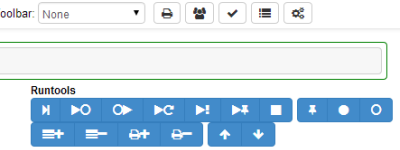
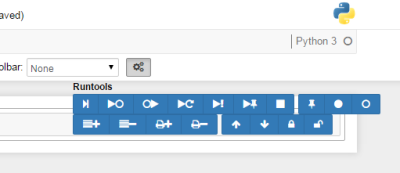
Update runtools docs

diff --git a/nbextensions/usability/runtools/readme.md b/nbextensions/usability/runtools/readme.md
@@ -29,32 +29,23 @@ Code Cell Display
 Description
 ===========
 
-The *runtools* extension adds a button to turn on/off a floating toolbar:
+The *runtools* extension adds a button to turn on/off a floating toolbar:   
 ![](runtools.png)
 
-This adds Code execution buttons:
+This adds Code execution buttons:   
 ![](runtools_execute.png)
 
-Codecells can be marked by clicking on the gutter of a codecell or by clicking on the markers toolbar:
+Codecells can be marked by clicking on the gutter of a codecell or by clicking on the markers toolbar:   
 ![](runtools_marker.png)
+
+Marked codecells can be locked to read-only mode and moved upd and down:   
+![](runtools_move_lock.png)
+
+The input and output areas of marked codecells can be hidden:   
+![](runtools_show_hide.png)
 
 A IPython notebook with marked cells looks like this:
 ![](runtools_nb.png)
-
-
-Installation
-============
-
-Copy the contents of the `runtools` directory to a new `/nbextensions/usability/runtools` directory of your user's IPython directory.
-Then you can manually load the extension from within the IPython notebook:
-
-```javascript
-%%javascript
-IPython.load_extensions('usability/runtools/main');
-```
-
-Or, for permanent installation instructions, please see the [readme](../../README.md),
-or the [wiki](https://github.com/ipython-contrib/IPython-notebook-extensions/wiki).
 
 
 Internals
@@ -64,3 +55,6 @@ New metadata elements added to each cell:
 * `cell.metadata.hide_input` - hide input field of the cell
 * `cell.metadata.hide_output` - hide output field of the cell
 * `cell.metadata.run_control.marked` - mark a codecell
+
+To export a notebook with hidden input/output fields, the custom template `hide_input_output.tpl` is required.
+It should have been installed in the `templates` folder.
